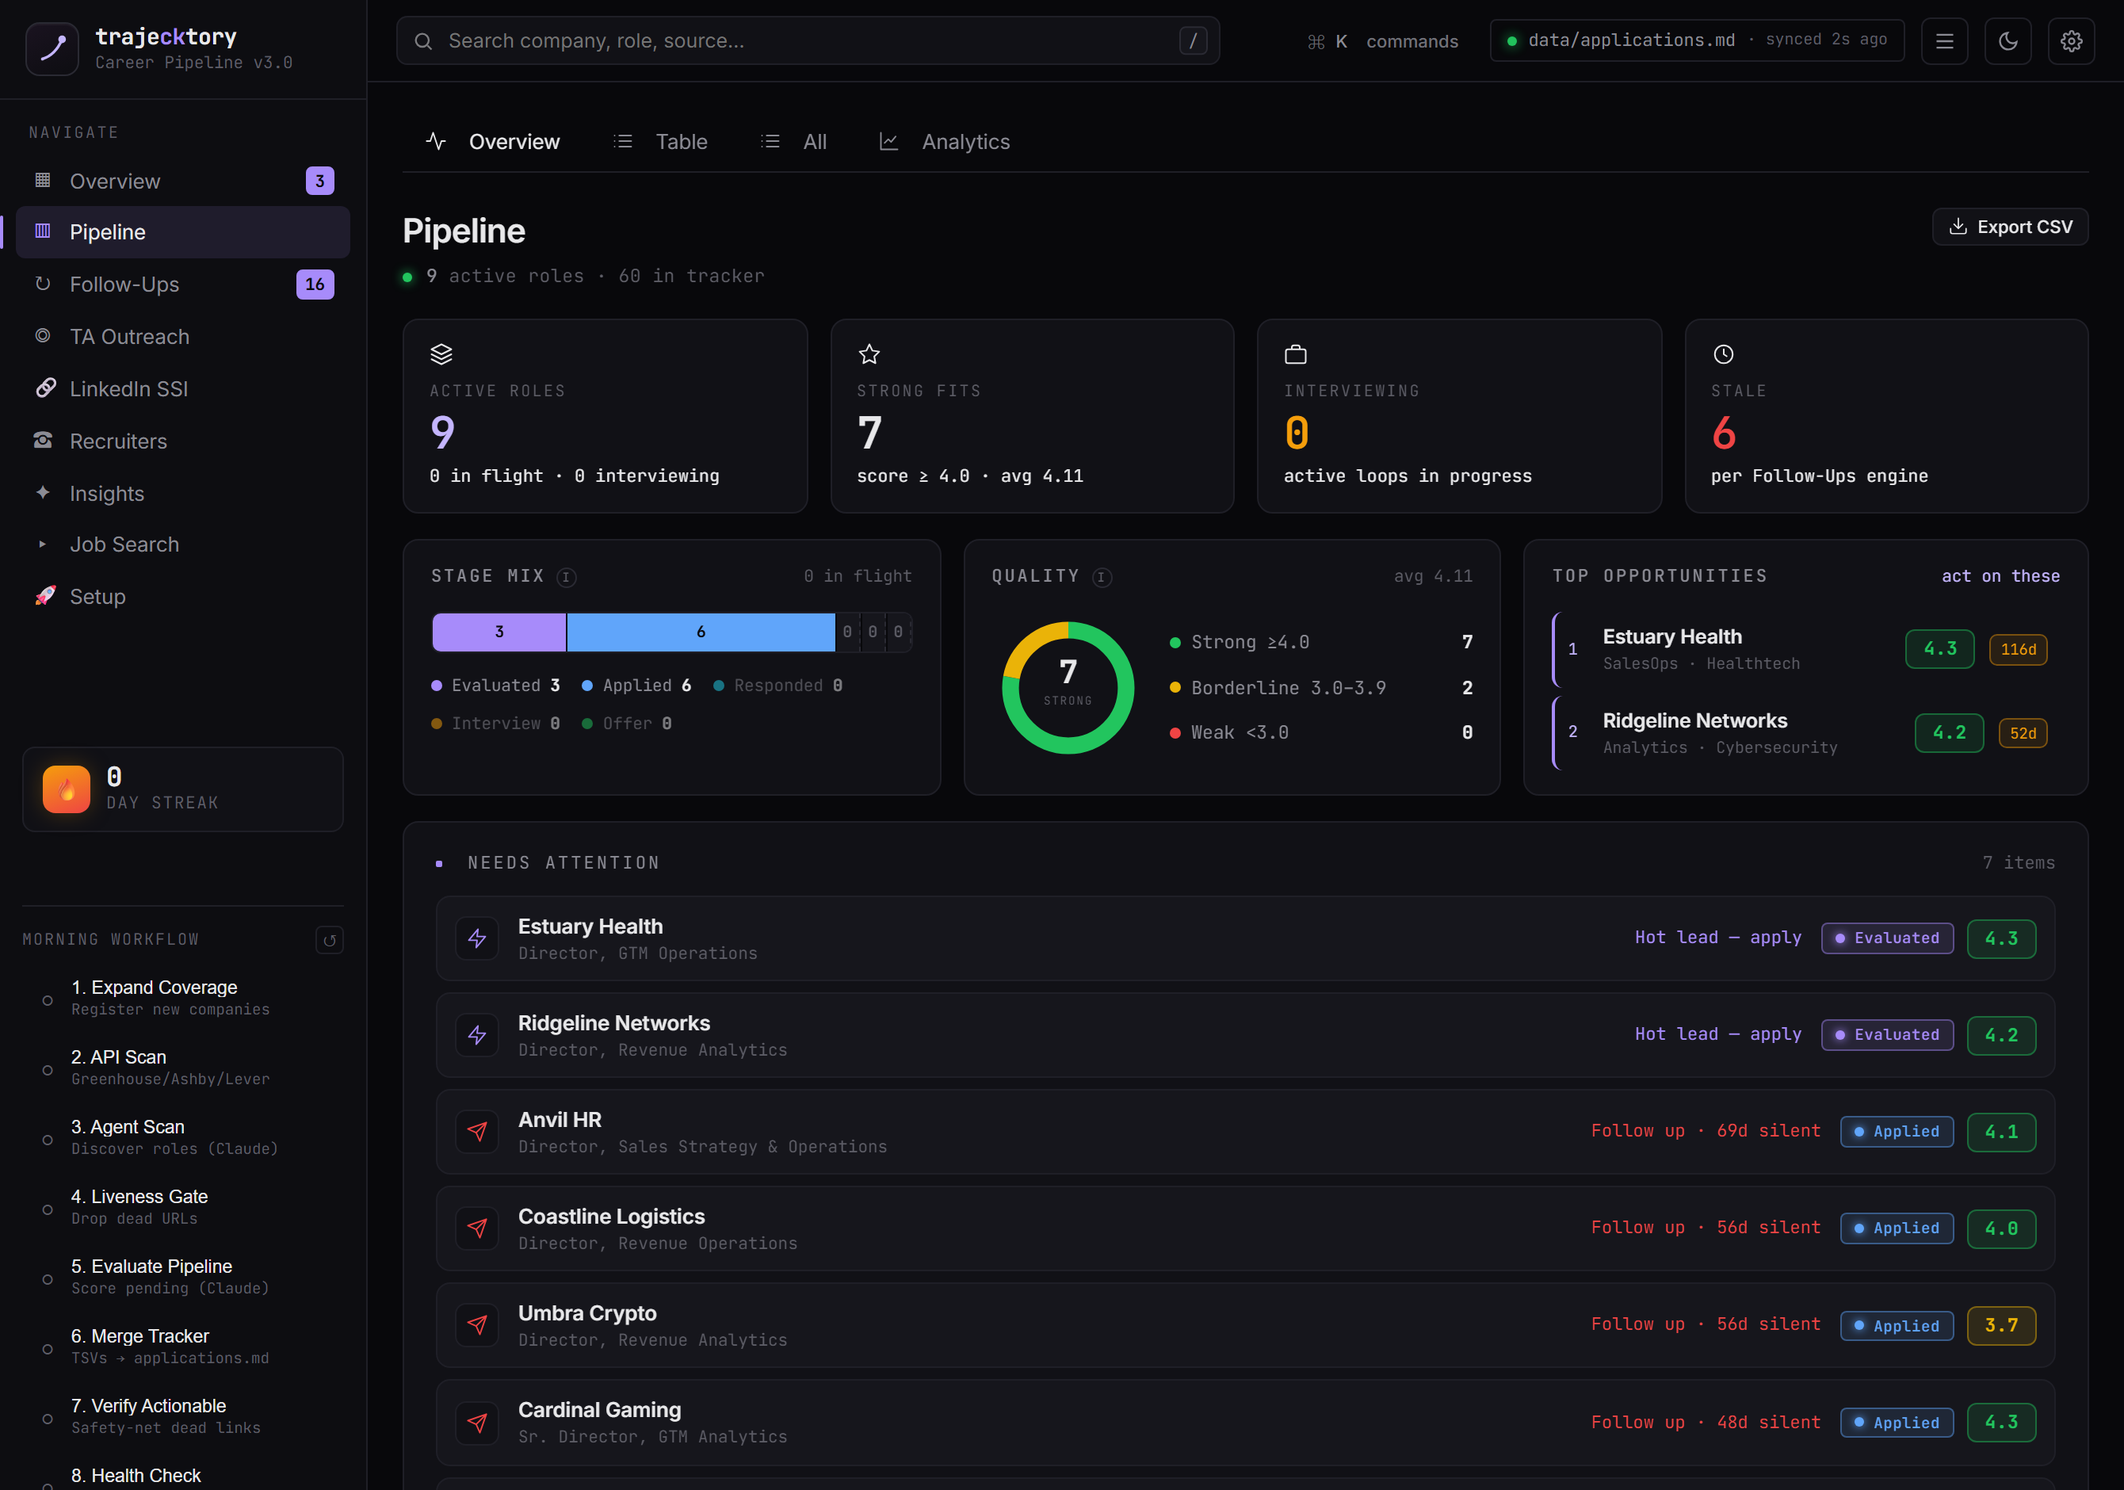
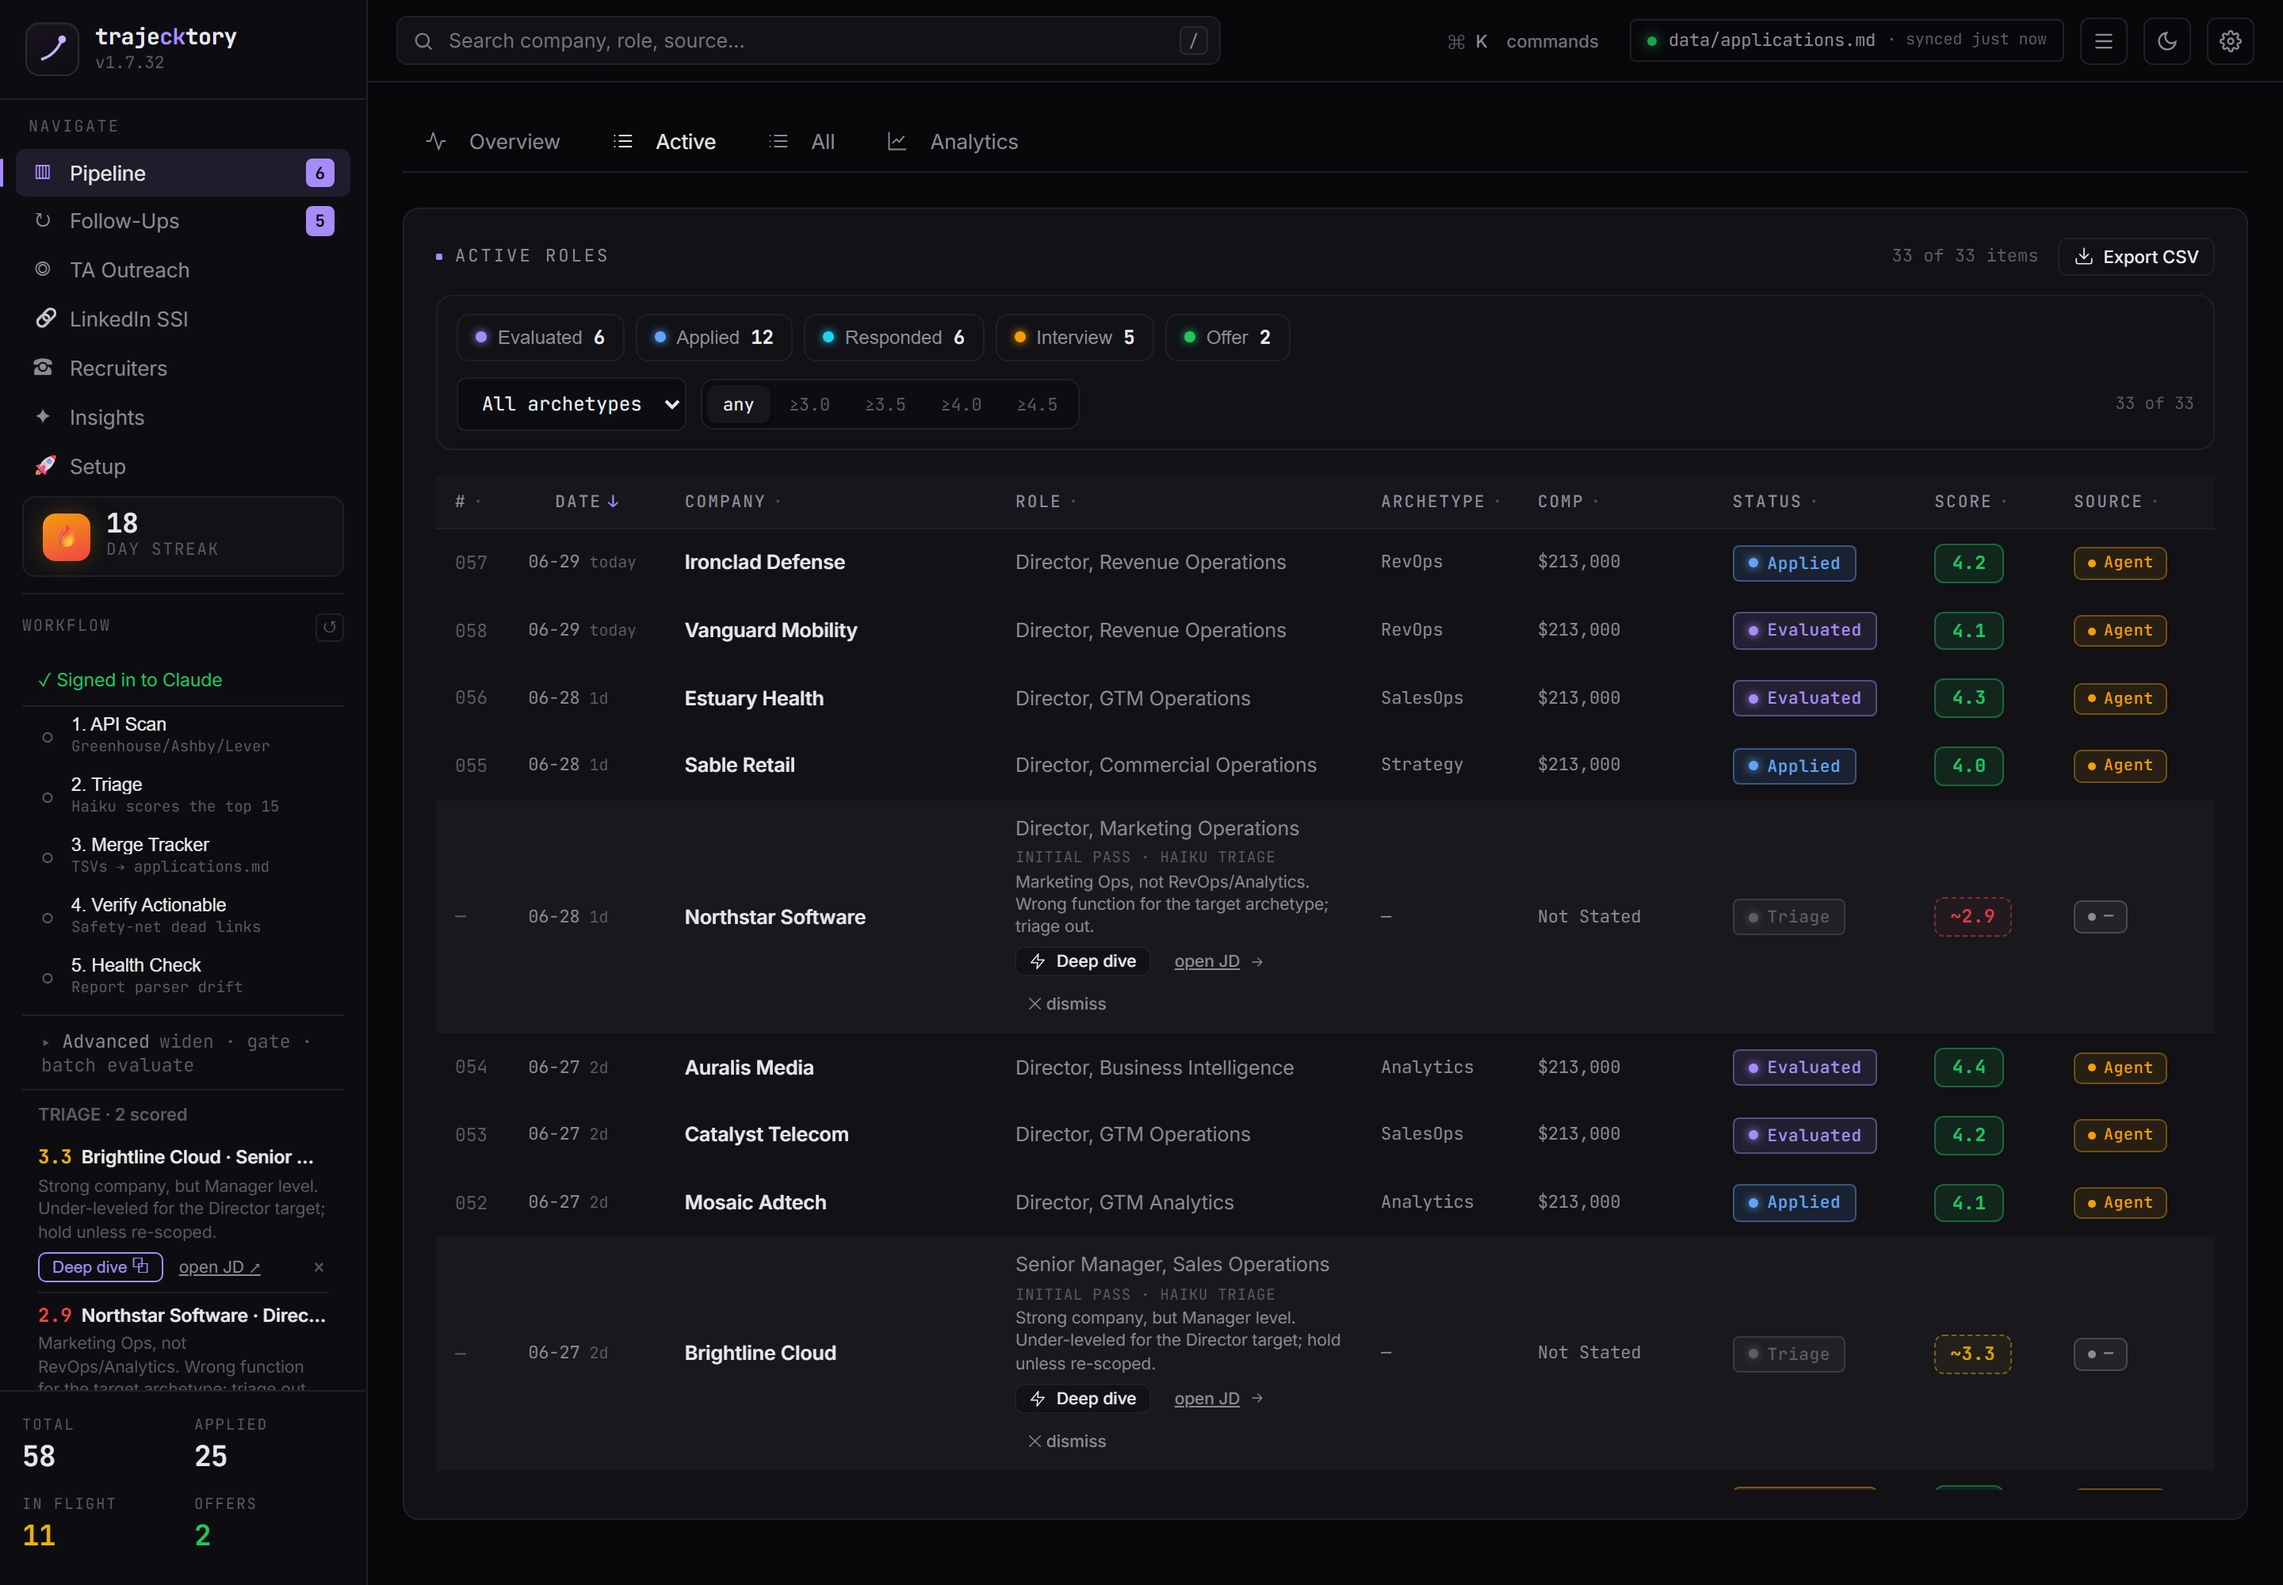
docs: refresh README dashboard screenshots
Replace the dashboard screenshots with new dark-mode captures and expand
the gallery: Overview (hero), Analytics, AI Insights, the per-role
evaluation drawer, Follow-Ups, Pipeline tracker, and Recruiters CRM.
The banner (docs/og-image.png) is unchanged and remains the first image.

diff --git a/README.md b/README.md
@@ -19,12 +19,22 @@
 </p>
 
 <p align="center">
-  <img src="docs/dashboard-overview.png" alt="trajecktory dashboard — Overview" width="820">
+  <img src="docs/dashboard-overview.png" alt="Dashboard Overview — pipeline funnel, response rate, and score distribution" width="820">
 </p>
 
 <p align="center">
-  <img src="docs/dashboard-pipeline.png" alt="Pipeline view" width="405">
-  <img src="docs/dashboard-recruiters.png" alt="Recruiters CRM" width="405">
+  <img src="docs/dashboard-analytics.png" alt="Pipeline Analytics — conversion, comp positioning, and archetype fit" width="405">
+  <img src="docs/dashboard-insights.png" alt="AI Insights — what's working, what's not, and this week's focus" width="405">
+</p>
+
+<p align="center">
+  <img src="docs/dashboard-drawer.png" alt="Per-role evaluation drawer — score breakdown, recommendation, and cheat sheet" width="405">
+  <img src="docs/dashboard-followups.png" alt="Follow-Up cadence — warm threads worth a nudge" width="405">
+</p>
+
+<p align="center">
+  <img src="docs/dashboard-pipeline.png" alt="Pipeline tracker — every role, scored and tracked" width="405">
+  <img src="docs/dashboard-recruiters.png" alt="Recruiters CRM — a synthetic outreach funnel" width="405">
 </p>
 
 ---
